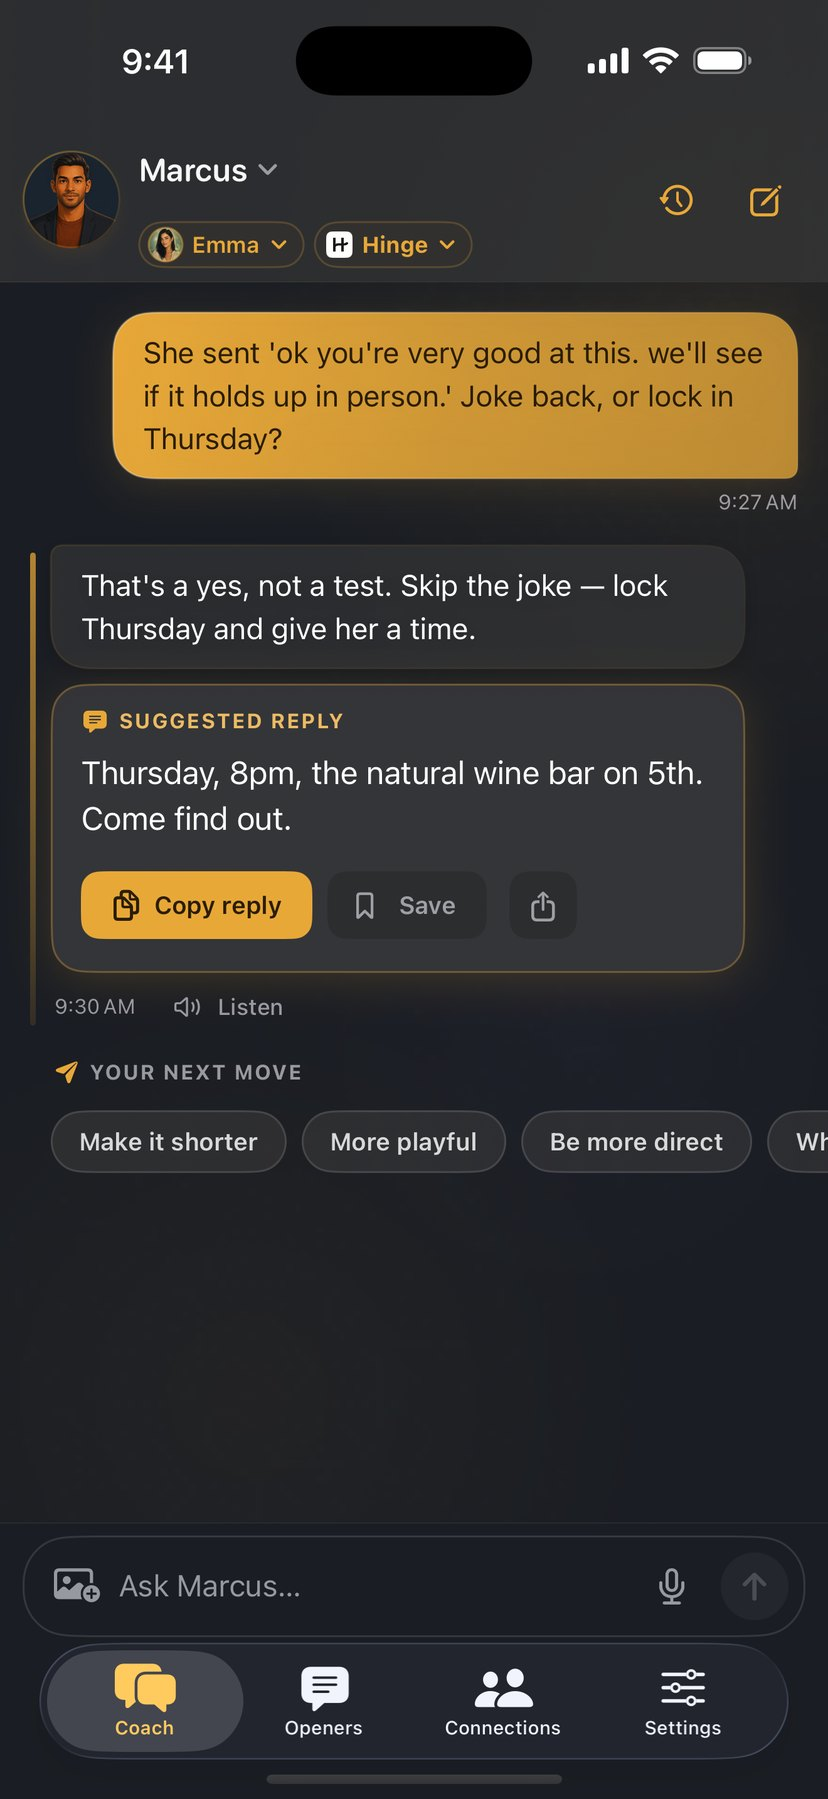
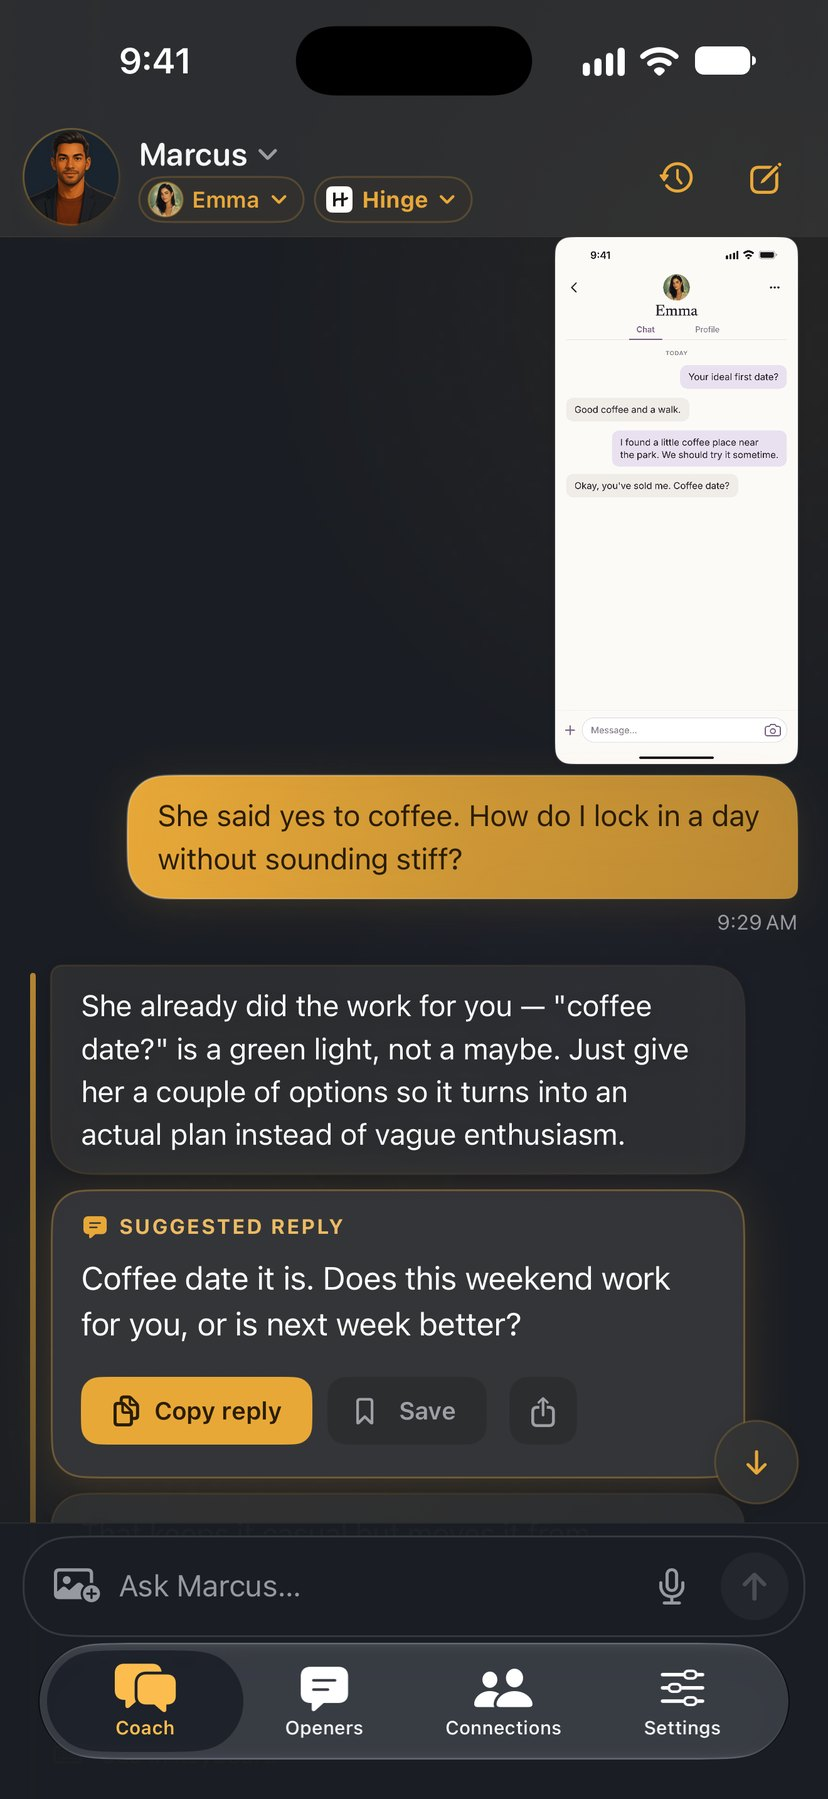
Wingmate hero carousel: three frames from 1.5.2 captures
Chat (coach strip with Auto, Use in keyboard), Meet your coaches sheet, and the Marcus/Emma coffee thread, from the 1.5.2 store capture set (native, 9:41 posed). The carousel's chat frame gets its own file so the #screens light/dark pair is untouched until a full rig re-shoot.

diff --git a/wingmate/index.html b/wingmate/index.html
@@ -774,13 +774,13 @@
           <div class="carousel-column">
             <div class="device">
               <div class="screen carousel" id="heroCarousel" aria-roledescription="carousel" aria-label="Wingmate app screenshots">
-                <img class="active" fetchpriority="high" width="828" height="1799" src="assets/screens/screen-chat.jpg?v=20260913a" alt="Wingmate chat — Marcus reads the Hinge thread with Emma and suggests a reply to copy: a natural wine bar on 5th, Thursday. Under it, your next move: Make it shorter, More playful, Be more direct." data-caption="Replies ready to copy">
+                <img class="active" fetchpriority="high" width="828" height="1799" src="assets/screens/screen-chat-152.jpg?v=20261002a" alt="Marcus on Sophia’s Bumble thread, with the coach strip showing Auto, Marcus, Jade, Eli and Ava: date two should be a step up from coffee, so he suggests a reply to copy — a band at the little room on 7th on Saturday — with Copy reply, Save, Share and Use in keyboard." data-caption="Replies ready to copy">
                 <img width="828" height="1799" src="assets/screens/screen-openers.jpg?v=20260913a" alt="The opener vault — 10 saved openers filed by platform, each with its own Copy button." data-caption="Your opener vault, one tap away">
                 <img width="828" height="1799" src="assets/screens/screen-analyze.jpg?v=20260913a" alt="Drop in a screenshot of the conversation and Ava reads it — three of Olivia's last four messages hand you something, and 'coffee recs welcome' is the first date." data-caption="Reads your screenshots">
-                <img width="828" height="1799" src="assets/screens/screen-coaches.jpg?v=20260913a" alt="Pick your coach — Marcus, Jade, Eli, and Ava: confident &amp; direct, the female perspective, chill &amp; funny, or strategic &amp; analytical." data-caption="Pick your coach">
+                <img width="828" height="1799" src="assets/screens/screen-coaches.jpg?v=20261002a" alt="Meet your coaches: Marcus (direct), Jade (her view), Eli (playful) and Ava (analytical), with Eli selected — chill and funny, good at witty openers and playful banter, with Hear intro and Ask Eli buttons." data-caption="Meet your coaches">
                 <img width="828" height="1799" src="assets/screens/screen-connections.jpg?v=20260913a" alt="Connections — 4 active across 3 apps: Sophia, Emma, Olivia, and Chloe, each with the app you met on and a stage from Matching to Exclusive, with archived connections below." data-caption="Track every connection">
                 <img width="828" height="1799" src="assets/screens/screen-settings.jpg?v=20260913a" alt="Settings — switch active coach, adjust coaching tone between Gentle and Direct, and set dating experience level." data-caption="Gentle or direct, your call">
-                <img width="828" height="1799" src="assets/screens/screen-hero.jpg?v=20260913a" alt="Marcus on Emma's Hinge thread — 'we'll see if it holds up in person' reads as a yes, so he suggests a reply to copy: Thursday, 8pm, the natural wine bar on 5th. Come find out." data-caption="The read, then the reply">
+                <img width="828" height="1799" src="assets/screens/screen-hero.jpg?v=20261002a" alt="Marcus on Emma’s Hinge thread with her chat screenshot attached: she said yes to coffee, so he suggests a reply to copy — Coffee date it is. Does this weekend work for you, or is next week better?" data-caption="The read, then the reply">
               </div>
             </div>
             <div class="carousel-caption" id="heroCaption" aria-live="polite"><span>Replies ready to copy</span></div>
